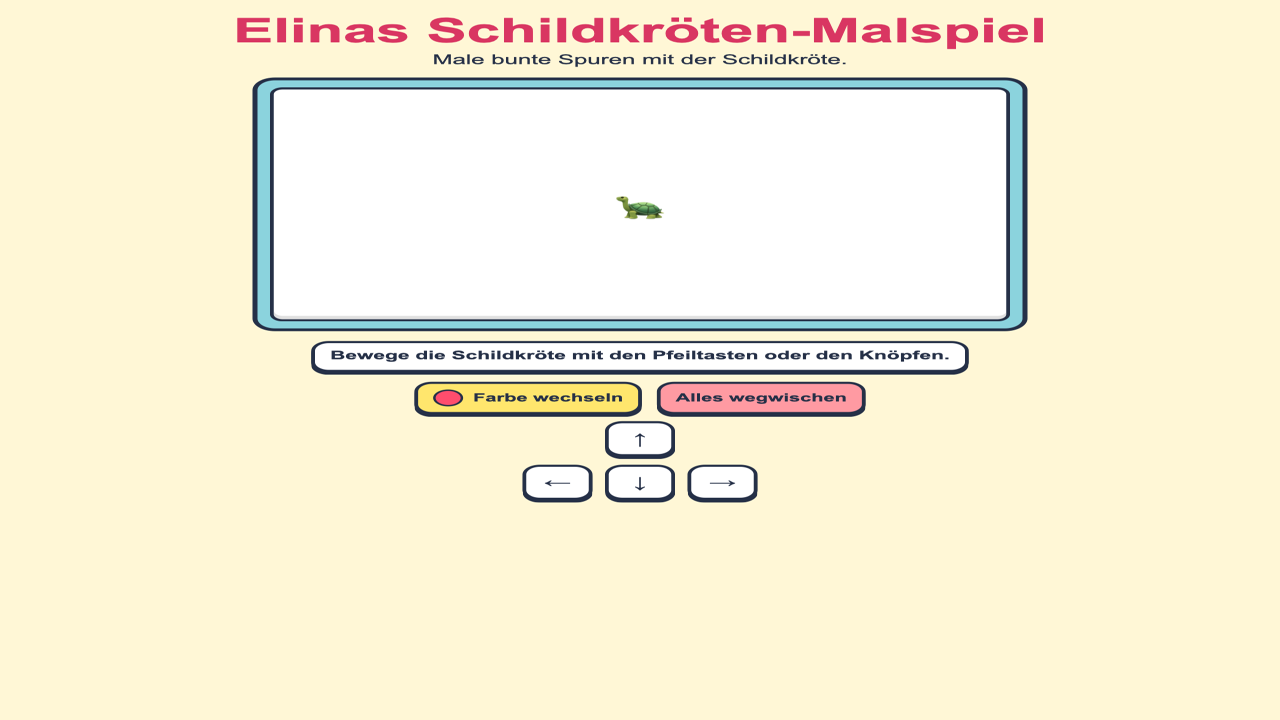
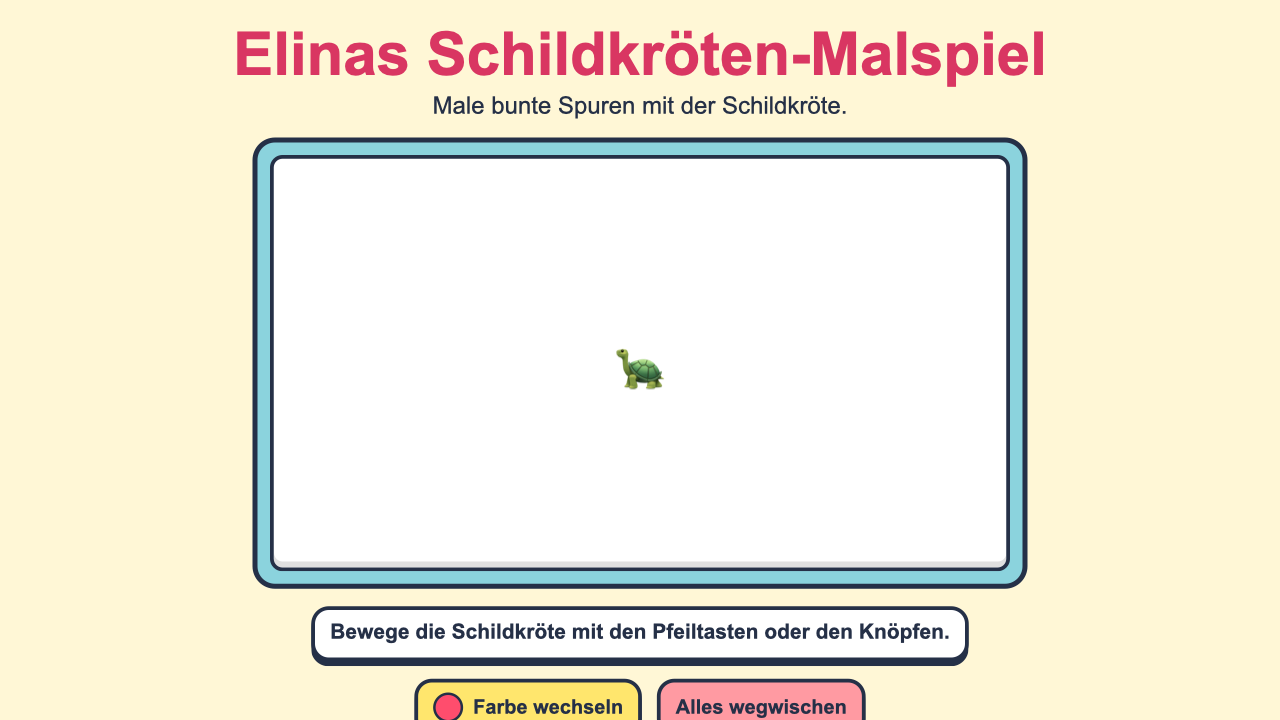
Fix Formenmalen preview and mobile movement

diff --git a/projects/formenmalen/script.js b/projects/formenmalen/script.js
@@ -15,8 +15,17 @@ const farben = [
   { name: "Lila", value: "#b197fc" },
 ];
 
-let x = malfeld.width / 2;
-let y = malfeld.height / 2;
+const schritt = 24;
+const rand = 24;
+const startX = malfeld.width / 2;
+const startY = malfeld.height / 2;
+const minX = startX - Math.floor((startX - rand) / schritt) * schritt;
+const maxX = startX + Math.floor((malfeld.width - rand - startX) / schritt) * schritt;
+const minY = startY - Math.floor((startY - rand) / schritt) * schritt;
+const maxY = startY + Math.floor((malfeld.height - rand - startY) / schritt) * schritt;
+
+let x = startX;
+let y = startY;
 let farbeNummer = 0;
 
 function aktuelleFarbe() {
@@ -48,16 +57,14 @@ function zeigeSchildkroete() {
 }
 
 function gehe(richtung) {
-  const schritt = 24;
-
   if (richtung === "links") x = x - schritt;
   if (richtung === "rechts") x = x + schritt;
   if (richtung === "oben") y = y - schritt;
   if (richtung === "unten") y = y + schritt;
 
-  // Die Schildkröte bleibt im Bild.
-  x = Math.max(20, Math.min(malfeld.width - 20, x));
-  y = Math.max(20, Math.min(malfeld.height - 20, y));
+  // Die Schildkröte bleibt auf ihrem 24px-Raster.
+  x = Math.max(minX, Math.min(maxX, x));
+  y = Math.max(minY, Math.min(maxY, y));
 
   malePunkt();
   zeigeSchildkroete();
@@ -104,9 +111,16 @@ document.addEventListener("keydown", function (ereignis) {
 });
 
 document.querySelectorAll("[data-richtung]").forEach(function (knopf) {
-  knopf.addEventListener("click", function () {
+  function bewegeSchildkroete() {
     gehe(knopf.dataset.richtung);
+  }
+
+  knopf.addEventListener("touchend", function (ereignis) {
+    ereignis.preventDefault();
+    bewegeSchildkroete();
   });
+
+  knopf.addEventListener("click", bewegeSchildkroete);
 });
 
 farbeKnopf.addEventListener("click", neueFarbe);

diff --git a/style.css b/style.css
@@ -31,6 +31,7 @@ body {
 img {
   display: block;
   max-width: 100%;
+  height: auto;
 }
 
 a {
@@ -190,9 +191,11 @@ h1 {
 .preview {
   position: absolute;
   width: min(72%, 520px);
+  aspect-ratio: 16 / 9;
   border: 4px solid var(--line);
   border-radius: 8px;
   background: white;
+  object-fit: cover;
   box-shadow: var(--shadow);
 }
 
@@ -269,10 +272,10 @@ h2 {
 
 .project-image-link {
   display: block;
-  aspect-ratio: 4 / 3;
+  aspect-ratio: 16 / 9;
   overflow: hidden;
   border-bottom: 4px solid var(--line);
-  background: #edf7fb;
+  background: var(--paper);
 }
 
 .project-image-link img {
@@ -334,15 +337,11 @@ h2 {
   }
 
   .project-card {
-    display: grid;
-    grid-template-columns: minmax(220px, 0.9fr) 1fr;
+    display: block;
   }
 
   .project-image-link {
-    height: 100%;
-    min-height: 260px;
-    border-right: 4px solid var(--line);
-    border-bottom: 0;
+    min-height: 0;
   }
 }
 
@@ -384,13 +383,7 @@ h2 {
     width: min(100% - 24px, 1120px);
   }
 
-  .project-card {
-    display: block;
-  }
-
   .project-image-link {
-    min-height: 0;
-    border-right: 0;
     border-bottom: 4px solid var(--line);
   }
 

diff --git a/index.html b/index.html
@@ -8,7 +8,7 @@
       content="Elinas Welt: eine kinderfreundliche Startseite für Elinas erste kleine Webprojekte."
     >
     <title>Elinas Welt</title>
-    <link rel="stylesheet" href="style.css?v=20260618">
+    <link rel="stylesheet" href="style.css?v=20260619">
   </head>
   <body>
     <header class="site-header">
@@ -42,7 +42,7 @@
         <div class="preview-stack" aria-label="Vorschau der Projekte">
           <img
             class="preview preview-one"
-            src="assets/formenmalen-preview.png?v=20260619"
+            src="assets/formenmalen-preview.png?v=20260619b"
             alt="Vorschau von Elinas Schildkröten-Malspiel"
           >
           <img
@@ -115,7 +115,7 @@
           <article class="project-card">
             <a class="project-image-link" href="./projects/formenmalen/" aria-label="Formenmalen öffnen">
               <img
-                src="assets/formenmalen-preview.png?v=20260619"
+                src="assets/formenmalen-preview.png?v=20260619b"
                 alt="Malfeld mit Schildkröte und bunten Punkten"
               >
             </a>

diff --git a/projects/formenmalen/index.html b/projects/formenmalen/index.html
@@ -4,7 +4,7 @@
     <meta charset="utf-8">
     <meta name="viewport" content="width=device-width, initial-scale=1">
     <title>Elinas Schildkröten-Malspiel</title>
-    <link rel="stylesheet" href="style.css?v=20260619b">
+    <link rel="stylesheet" href="style.css?v=20260619c">
   </head>
   <body>
     <main class="app">
@@ -42,6 +42,6 @@
       </section>
     </main>
 
-    <script src="script.js?v=20260619b"></script>
+    <script src="script.js?v=20260619d"></script>
   </body>
 </html>

diff --git a/projects/formenmalen/style.css b/projects/formenmalen/style.css
@@ -8,6 +8,7 @@ body {
   font-family: Arial, sans-serif;
   color: #253047;
   background: #fff7d6;
+  touch-action: manipulation;
 }
 
 .app {
@@ -119,6 +120,9 @@ button {
   font-weight: 700;
   cursor: pointer;
   box-shadow: 0 4px 0 #253047;
+  touch-action: manipulation;
+  user-select: none;
+  -webkit-tap-highlight-color: transparent;
 }
 
 button:hover {